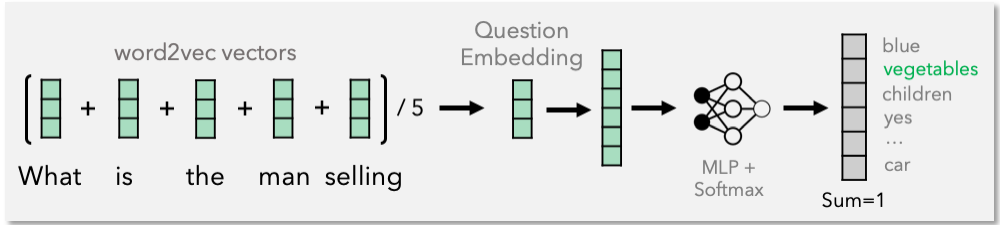
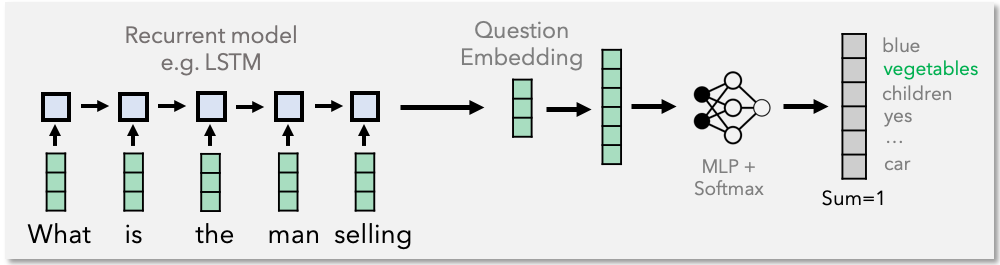
Small updates to vanilla vqa blog post

diff --git a/_posts/2019-05-25-vanilla-vqa.md b/_posts/2019-05-25-vanilla-vqa.md
@@ -17,9 +17,9 @@ While seemingly an easy task for humans, VQA affords several challenges to AI sy
 
 # The VQA-v1 dataset and metric
 
-One of the early datasets for this task that became quite popular was the [VQA-v1](http://arxiv.org/pdf/1505.00468.pdf) dataset. The VQA-v1 dataset is a very large dataset consisting of two types of images: natural images (referred to as _real images_) as well as synthetic images (referred to as _abstract scenes_) and comes in two answering modalities: _multiple choice_ question answering (the task of selecting the right answer amongst a set of choices) as well as _open ended_ question answering (the task of generating an answer with an open ended vocabulary). Owing to its difficulty and real world applicability, _open ended_ question answering about natural image content has become the most popular VQA task amongst the four dataset flavors.
+One of the early and popular datasets for this task was the [VQA-v1](http://arxiv.org/pdf/1505.00468.pdf) dataset. The VQA-v1 dataset is a very large dataset consisting of two types of images: natural images (referred to as _real images_) as well as synthetic images (referred to as _abstract scenes_) and comes in two answering modalities: _multiple choice_ question answering (the task of selecting the right answer amongst a set of choices) as well as _open ended_ question answering (the task of generating an answer with an open ended vocabulary). Owing to its difficulty and real world applicability, _open ended_ question answering about natural image content has become the most popular VQA task amongst the four dataset flavors.
 
-The _real images_ fraction of the VQA-v1 dataset consists of over 200,000 natural images sourced from the MS-COCO dataset, a large scale dataset of images used to benchmark tasks such as object detection, segmentation and image captioning. Each image is paired with 3 questions written down by crowdsourced annotators. The dataset contains a variety of questions such as: _What color_, _What kind_, _Why_, _How many_, _Is the_, etc. To account for potential disagreements between humans for some questions as well as crowd sourcing noise, each question is accompanied by 10 answers. Most answers are short and to the point, such as _yes_, _no_, _red_, _dog_ and _coca cola_ with close to 99% of the answer containing 3 or fewer words.
+The _real images_ fraction of the VQA-v1 dataset consists of over 200,000 natural images sourced from the MS-COCO dataset, a large scale dataset of images used to benchmark tasks such as object detection, segmentation and image captioning. Each image is paired with 3 questions written down by crowdsourced annotators. The dataset contains a variety of question types such as: _What color_, _What kind_, _Why_, _How many_, _Is the_, etc. To account for potential disagreements between humans for some questions, as well as account for crowd sourcing noise, each question is accompanied by 10 answers. Most answers are short and to the point, such as _yes_, _no_, _red_, _dog_ and _coca cola_ with close to 99% of the answer containing 3 or fewer words.
 
 Given an image and a question, the goal of a VQA system is to produce an answer that matches those provided by human annotators. For the _open ended_ answering modality, the evaluation metric used is:
 
@@ -27,7 +27,7 @@ $$
 \textrm{accuracy} = \textrm{min}\left ( \frac{\textrm{number of annotator answers that match the generated answer}}{3} , 1\right )
 $$
 
-The intuition behind this metric is as follows. If a system generates an answer also produced by at least 3 unique annotators, it gets a maximum score of 1 on account of producing a popular answer. If it generates an answer that isn't present amongst the 10 candidates, it gets a score of 0, and it is assigned a fractional score if it produces an answer that is deemed rare. If the denominator 3 is lowered to 1, wrong answers in the dataset (present due to annotator noise) will receive maximum credit. Conversely, if it is raised towards 10, a system producing the right answer will only receive partial credit if the answer choices consist of synonyms or happen to contain just a few of noisy answers.
+The intuition behind this metric is as follows. If a system generated answer matches one produced by at least 3 unique annotators, it gets a maximum score of 1 on account of producing a popular answer. If it generates an answer that isn't present amongst the 10 candidates, it gets a score of 0, and it is assigned a fractional score if it produces an answer that is deemed rare. If the denominator 3 is lowered, wrong and noisy answers in the dataset (often present due to annotation noise) will receive a high credit. Conversely, if it is raised towards 10, a system producing the right answer may only receive partial credit, if the answer choices consist of synonyms or happen to contain a few noisy answers.
 
 Learn more about the VQA-v1 dataset here:
 
@@ -40,29 +40,29 @@ Learn more about the VQA-v1 dataset here:
 
 # When open ended isn't really that open ended
 
-Generating answers for open ended questions requires training a model that inputs an image and corresponding question and outputs a sequence of words using a decoder. However, training decoders is often more cumbersome than training a system that simply picks amongst a pool of K possible answers. As it turns out, most answers in datasets such as VQA-v1 tend to cluster into a manageable set of a few thousand answers. For instance the 1000 most common answers in VQA-v1 cover roughly 83% of all answers in the dataset. This allows us to reformulate the open ended question answering problem into a K-way multiple choice problem where the same K choices are presented for every question. As K increases, the number of answer choices that the model has to choose from increases. This allows the model to potentially answer a higher fraction of questions correctly, but also usually requires a larger model and more training data. Most VQA researchers work with the top 1000 answer classes.
+Generating answers for open ended questions requires training a model that inputs an image and corresponding question and outputs a sequence of words using a decoder. However, training decoders is often more cumbersome than training a system that simply picks amongst a pool of K possible answers. As it turns out, most answers in datasets such as VQA-v1 tend to cluster into a manageable set of a few thousand answers. For instance, the 1000 most common answers in VQA-v1 cover roughly 83% of all answers in the dataset. This allows us to reformulate the open ended question answering problem into a K-way multiple choice problem where K is a large number such as 1000 or 2000 that covers most answers in the dataset. This is akin to a multiple choice answering paradigm where the same K choices are presented for every question. As K increases, the number of answer choices that the model has to choose from increases. This allows the model to potentially answer a higher fraction of questions correctly, but also usually requires a larger model and more training data. Most VQA researchers work with the top 1000 answer classes.
 
 ![](/assets/images/vanilla-vqa-open-ended.png)
 
 # A baseline VQA model
 
-The image below shows the architecture of a simple VQA neural network. The image is fed into a convolutional neural network (CNN) such as ResNet-18 which outputs a feature vector encoding the contents of the image and is referred to as an image embedding. The question is featurized by computing an average of the word2vec vectors over all the words in the question, resulting in a question embedding. These embedding vectors, which compactly represent the image and question contents have different dimensions. Hence they are first projected into the same number of dimensions using corresponding fully connected layers (a linear transformation) and then combined using pointwise multiplication (multiplying values at corresponding dimensions). The final stage of the VQA model is a multilayer perceptron with a softmax non-linearity at the end that outputs a score distribution over each of the top K answers. Converting the open ended question answering to a K-way classification task allows us to train the VQA model using a cross entropy loss.
+The image below shows the architecture of a simple VQA neural network. The image is fed into a convolutional neural network (CNN) such as ResNet-18 which outputs a feature vector encoding the contents of the image and is referred to as an _image embedding_. The question is featurized by computing an average of the word2vec vectors over all the words in the question, resulting in a _question embedding_. These embedding vectors, which compactly represent the image and question contents have different dimensions. Hence they are first projected into the same number of dimensions using corresponding fully connected layers (a linear transformation) and then combined using pointwise multiplication (multiplying values at corresponding dimensions). The final stage of the VQA model is a multilayer perceptron with a softmax non-linearity at the end that outputs a score distribution over each of the top K answers. Converting the open ended question answering to a K-way classification task allows us to train the VQA model using a cross entropy loss between the generated answer distribution and the ground truth.
 
 ![](/assets/images/vanilla-vqa-baseline.png)
 
-The image backbone is initialized with weights obtained from a network such as ResNet-18, trained on the ImageNet classification dataset. This initialization provides several advantages: First, it leads to faster training, since training a large image CNN from scratch is usually quite expensive. Second, this allows the VQA model to exploit knowledge obtained from the ImageNet dataset, which may be very useful to answer questions about objects in images. Third, if the image CNN weights are not fine-tuned on the VQA dataset, the image representations for the entire training dataset can be pre-computed and stored on disk, which results in less memory consumption while training the VQA model.
+The image backbone is initialized with weights obtained from a network such as ResNet-18, trained on the ImageNet classification dataset. This initialization provides several advantages: _First_, it leads to faster training, since training a large image CNN from scratch is usually quite expensive. _Second_, this allows the VQA model to exploit knowledge obtained from the ImageNet dataset, which may be very useful to answer questions about objects in images. _Third_, if the image CNN weights are not fine-tuned on the VQA dataset and instead frozen to the ImageNet ones, the image representations for the entire training dataset can be pre-computed and stored on disk, which results in less memory consumption while training the VQA model.
 
 # Many simple variants of the baseline model
 
 One can easily tweak this simple VQA architecture in several ways to arrive at a bunch of different VQA models as shown in the image below.
 
-_Image Embedding_ : The image can be passed through a variety of image embedding neural networks (each pre-initilaized with the corresponding ImageNet variant). Typically, VQA task accuracy correlates well with the accuracy obtained by the network architecture on the ImageNet classification task (for example, a VQA baseline with ResNet-50 does better than a baseline with AlexNet).
+_Image Embedding_ : The image can be passed through a variety of image embedding neural networks (each pre-initilaized with the corresponding ImageNet variant). Typically, VQA task accuracy correlates well with the accuracy obtained by the network architecture on the ImageNet classification task (for example, a VQA model with ResNet-50 does better than a model with AlexNet).
 
 This suggests that (a) Network architectures that perform well at image classification also perform well at VQA, and (b) The knowledge obtained from ImageNet and encoded within the parameters of the image embedding network aids the task of VQA, and a better knowledge representation leads to improved metrics on VQA.
 
 _Text Embedding_ : word2vec embeddings encode each word into a fixed dimensional vector which captures the syntax and semantics of that word. One can easily substitute this embedding by any other word embedding such as Glove. Word embeddings that work better on a variety of NLP tasks, typically work better for the VQA task.
 
-Another simple variant, is to use a recurrent neural network such as an LSTM to encode the sequence of word embeddings, instead of simply averaging the word vectors. In contrast to averaging, using an LSTM preserves the order of the words in the question and hence leads to an improved VQA accuracy.
+Another simple variant, which is the de facto standard today, is to use a recurrent neural network such as an LSTM to encode the sequence of word embeddings, instead of simply averaging the word vectors. In contrast to averaging, using an LSTM preserves information regarding the order of the words in the question and leads to an improved VQA accuracy.
 
 _Combining the word vectors_ : There are several easy and cheap ways of combining representations from the image and text modality: Pointwise operations as well as concatenation. Concatenation leads to an increase in the number of parameters for the ensuing network. There isn't a clear winner amongst these simple variants, although pointwise multiplication tends to be the most common option across research papers.
 
@@ -85,13 +85,15 @@ Learn more about simple yet powerful VQA baselines for the multiple choice and o
   venue="ECCV 2016"
 %}
 
-# The question only baseline
+# How well do these simple models perform ?
 
-An important baseline to consider is the question only baseline shown below which does not consider the image at all. Not looking at an image while answering a question about an image seems very counter intuitive right ? However, such a question only baseline performs reasonably well on the VQA-v1 dataset. The baseline model shown above obtains an accuracy of 57.75 where as the question only model obtains an accuracy of 48.76. These is a very high accuracy when you consider that the number of answer choices in the open ended scenario is very large (the top 1000 answers cover roughly 83% of all answers). How is this possible ?
+On the VQA-v1 dataset, a simple baseline similar to the one described above obtained an accuracy of 57.75 on the real images open ended question answering setting. This is a rather high accuracy when you consider that the number of answer choices in the open ended scenario is very large (the top 1000 answers cover roughly 83% of all answers).
+
+However, this needs to be put into context by comparing the number to another simple baseline, the _question only baseline_ which does not consider the image at all. Not looking at an image while answering a question about an image seems very counter intuitive right ? However, such a question only baseline (depicted in the image below) performs reasonably well on the VQA-v1 dataset. It obtains an accuracy of 50.39 on VQA-v1. How is this possible ?
 
 ![](/assets/images/vanilla-vqa-question-only.png)
 
-While the number of answer choices for the open ended scenario is very large, the inherent structure and regularities in the world result in just a few plausible answers given a question. For instance, the question "What color is the construction cone ?" can likely be answered by simply choosing a common color, reducing the space of answers from 1000s to roughly 10. Furthermore, construction cones are dominantly orange in the color in the world. Hence simply memorizing this fact and always answering "orange" for this question results in a reasonable VQA system that does not need to look at the image.
+While the number of answer choices for the open ended scenario is very large, the inherent structure and regularities in the world result in just a few plausible answers given a question. For instance, the question "What color is the construction cone ?" can likely be answered by simply choosing a common color, reducing the space of answers from 1000s to roughly 10. Furthermore, construction cones are dominantly orange in the color in the world. Hence simply memorizing this fact and always answering "orange" for this question results in a reasonable VQA system that does not need to look at the image. Neural networks are very good at exploiting such data biases that can be learnt from the training set, and this is precisely what is happening with the _question only baseline_.
 
 # Conclusion
 
